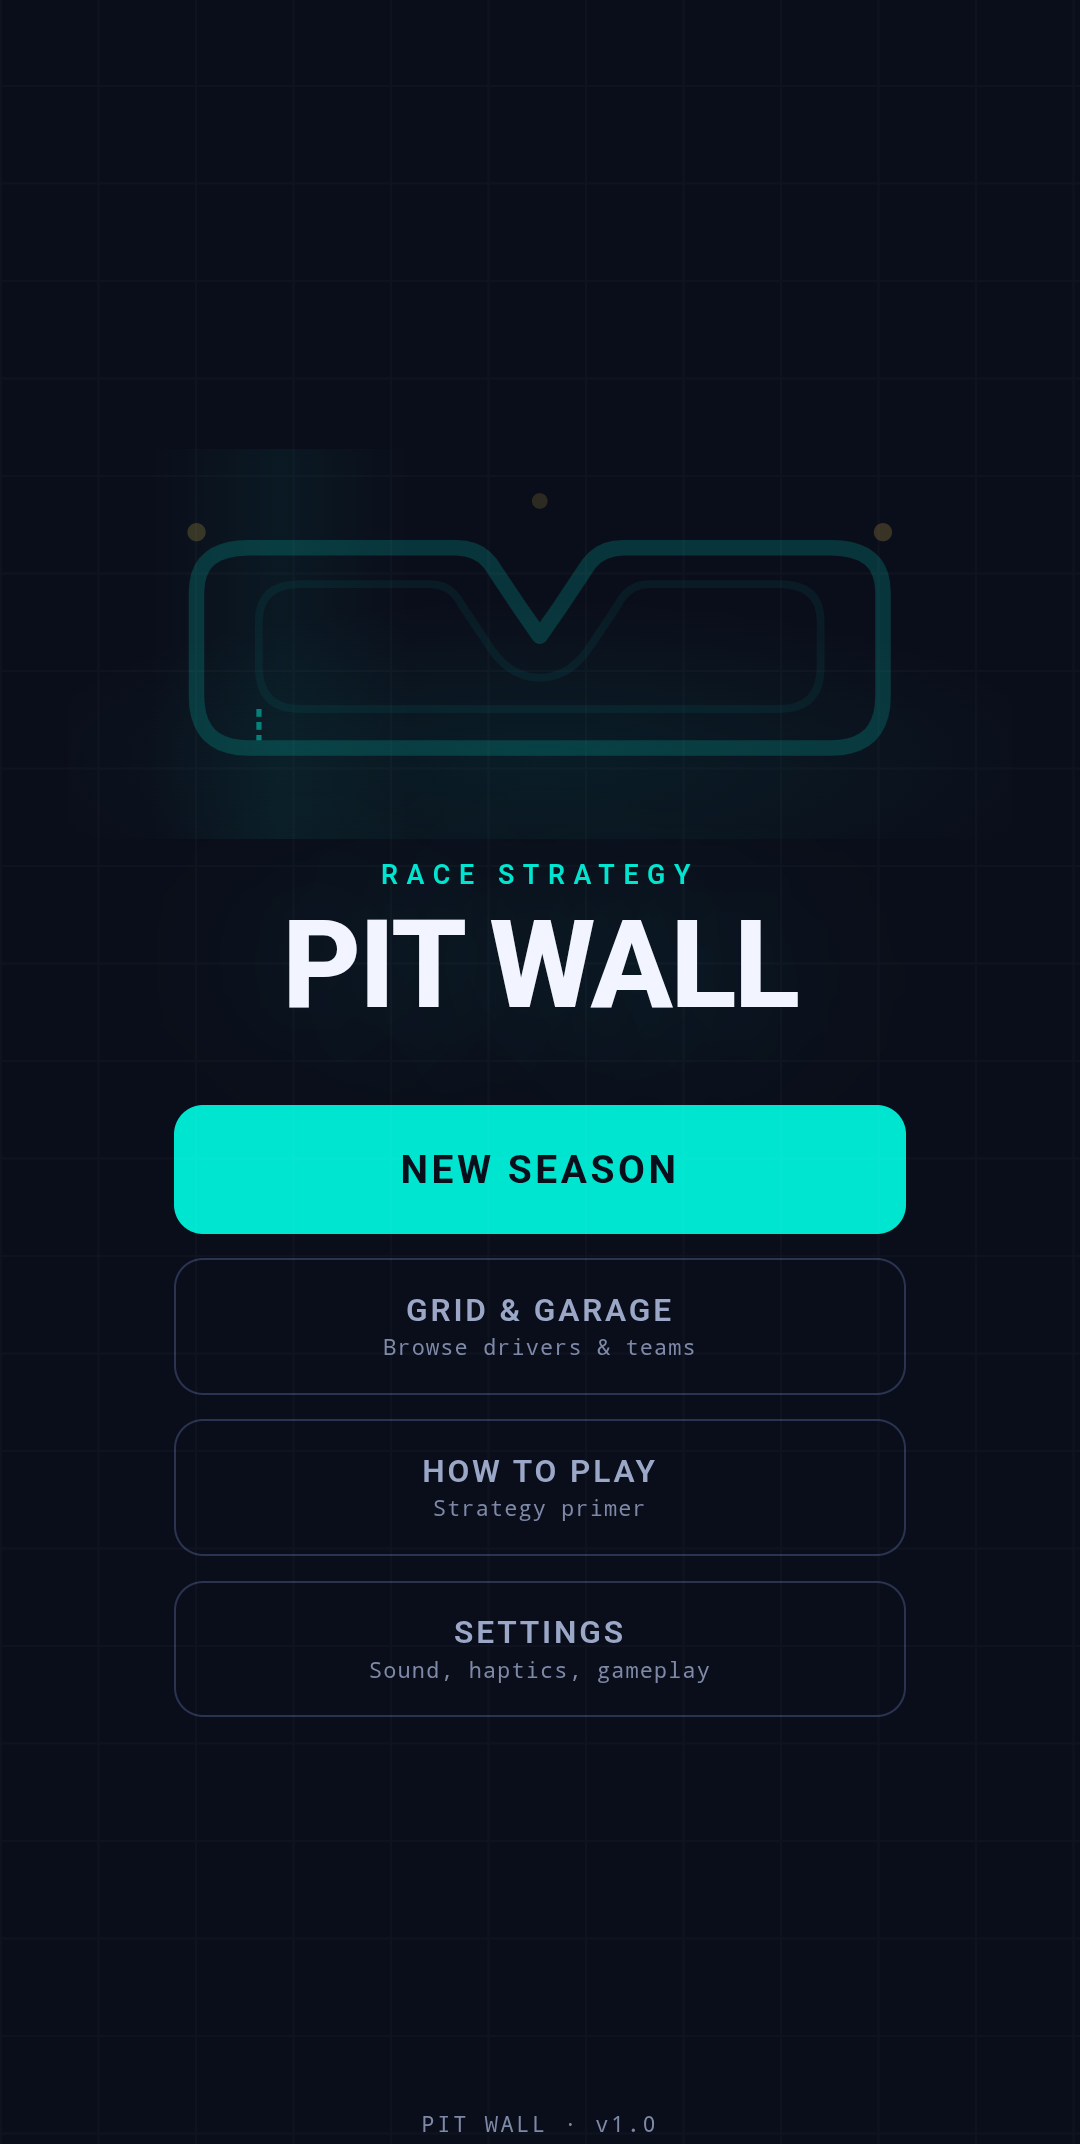
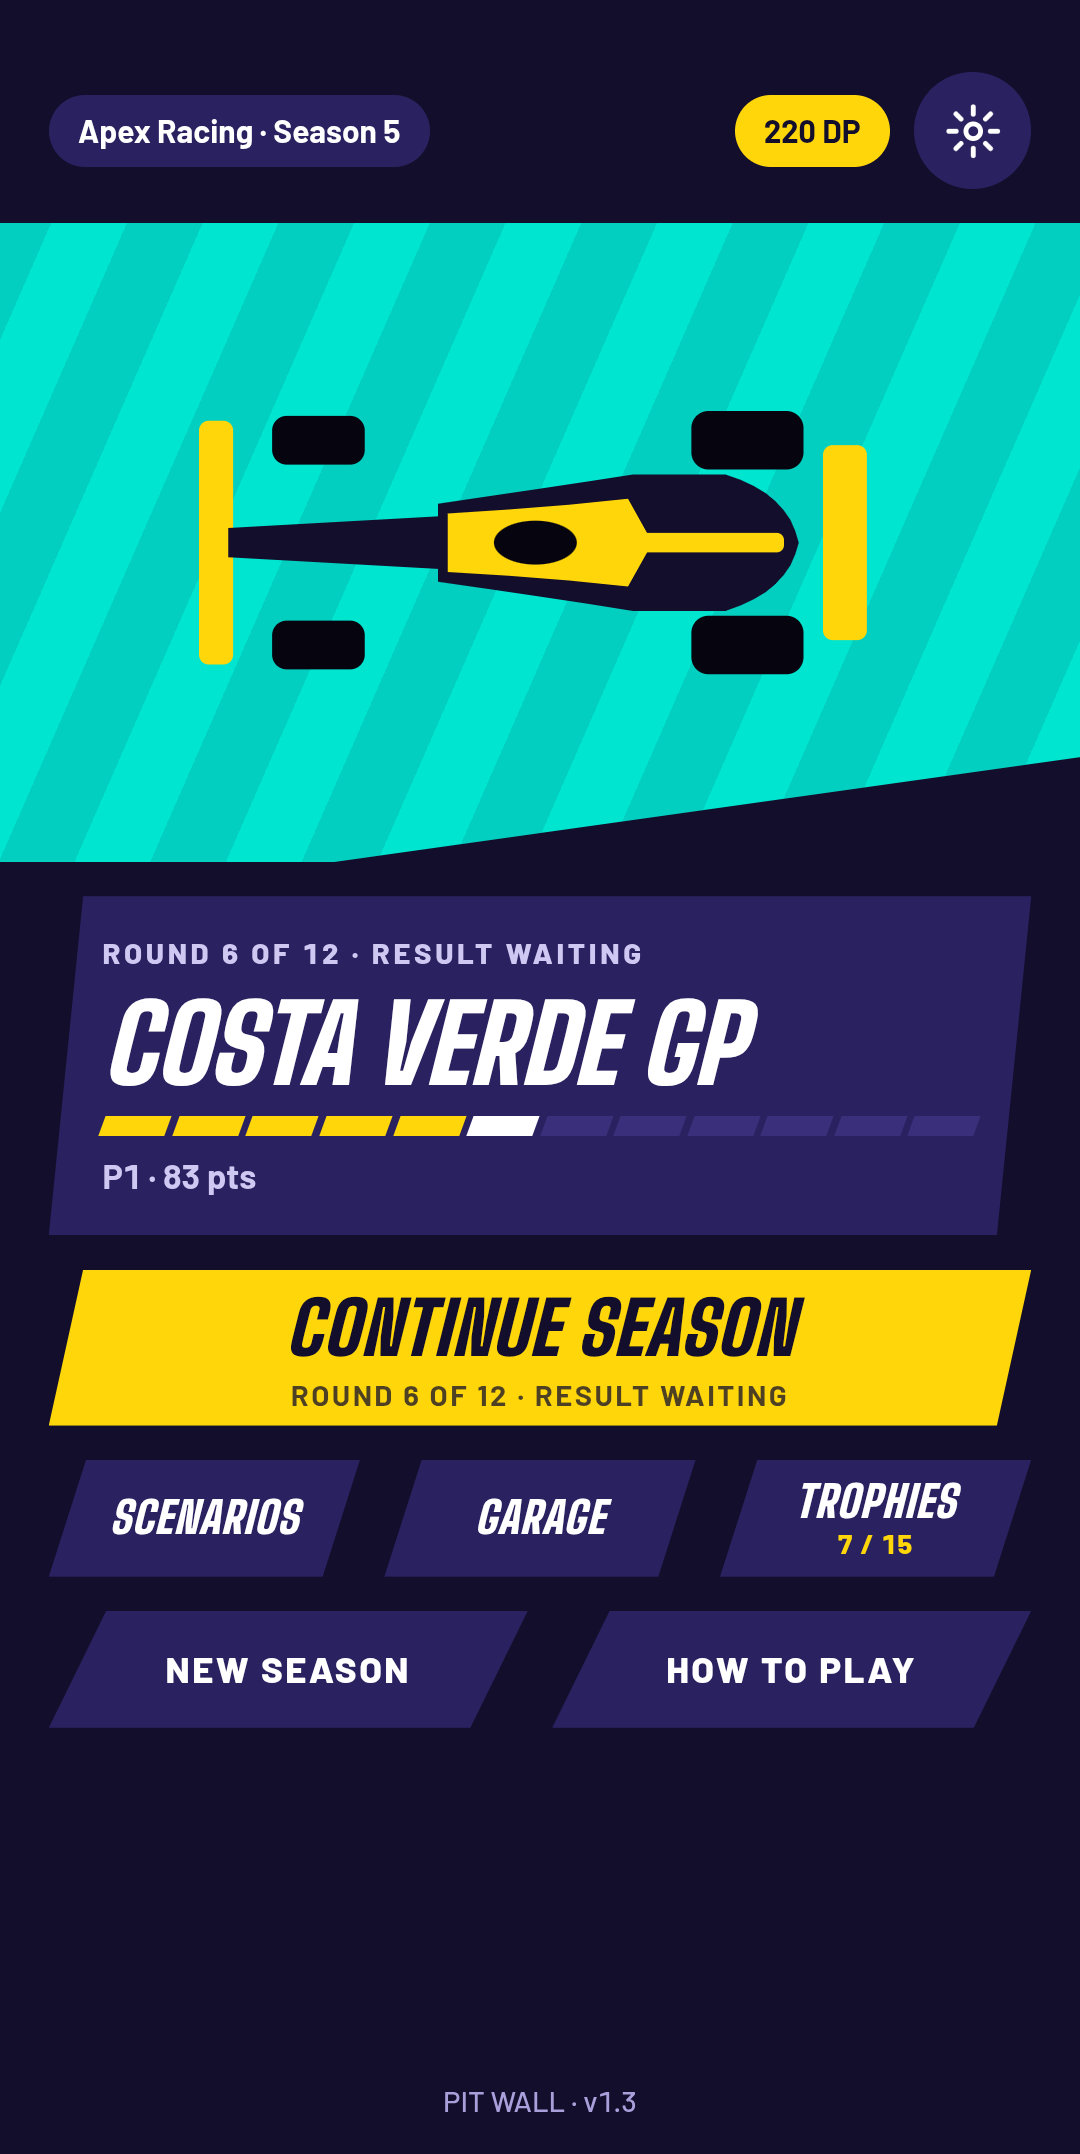
docs: Race Day Bold plan 2 phone pass and store screenshots

diff --git a/docs/V2-CHECKLIST.md b/docs/V2-CHECKLIST.md
@@ -198,9 +198,11 @@ Checked against the repo and the Play Console on 2026-09-24.
 
 ### Still Veet's, unchanged
 
-- **Screenshots.** The 7 in `store/screenshots/` are from August and
-  September: no qualifying, no career, no badges, and shot before the font
-  fix. The icon and feature graphic are fine and were reused for PGS.
+- **Screenshots.** Replaced 2026-10-10 with 6 Race Day Bold shots in
+  `store/screenshots/` (menu, race setup, qualifying, live race, pit panel,
+  trophy room; status and nav bars cropped). Ready to upload; a race result
+  and a team-select shot are still missing (see the Plan 2 phone pass). The
+  icon and feature graphic predate the redesign.
 - **Privacy policy hosting.** Still not at a public URL, and 1.3 needs it to
   say more than 1.2 did.
 - **1.2 review status.** Submitted 2026-09-24; unknown since.
@@ -235,8 +237,7 @@ Checked against the repo and the Play Console on 2026-09-24.
 3. **A contact address for the privacy policy**, and hosting for it. Play
    will not accept the policy without an address, and 1.3 cannot ship without
    the policy.
-4. **Screenshots.** Still August and September: no qualifying, no career, no
-   badges, shot before the font fix.
+4. **Screenshots.** Replaced 2026-10-10 (Race Day Bold, 6 shots).
 5. **1.2's review status**, still unknown.
 
 ## 2026-10-09: the team ladder
@@ -334,3 +335,17 @@ replied inside the Capacitor WebView on the Pixel 10 Pro XL
 - Untouched screens readable in the new palette: development, race setup, qualifying.
 - Fixed after the first pass: invisible car on the menu band, digit gaps, empty space above the tower, "1 laps", projection only after a tyre tap.
 - Left for Plan 2: race-setup circuit card renders collapsed (pre-existing); a small gap remains in "+ 15 PTS"; podium helmets look soft at small size; menu "next race" shows the pending round while a result is unkept (old semantics).
+
+## 2026-10-10: Race Day Bold — Plan 2 phone pass
+
+Release build on the Pixel-class test phone (1080x2404), Veet's season-5 career, round 6.
+
+- Seen and working: the factory, race setup (circuit card full height, laps 2–4 forecast pills, REC on the recommended tyre, stint split dragged L21→L33 and the PLAN line followed), qualifying (lap card, grid, SIMULATE + TO THE GRID after a lap), race (tower, tyre meter, PIT sheet with ghost row and sets left), result (flat helmets, DNF band), menu (RESULT WAITING, TROPHIES 7/15), trophy room, garage (collectible cards, white visors), settings, scenarios.
+- Fixed during the pass (f4bd690): settings speed/difficulty selectors crushed; factory eyebrow clipped at "6 OF"; selected tyre too faint in race setup; HUD lap counter gap "L   1/46"; scenario pills invisible on the card.
+- Not exercised on the phone: team and driver select (reachable only through NEW SEASON, which would discard the career), the season-end verdict, start lights (the race started without the sequence), the dry-track spin radio (unit-tested).
+- The round-6 result was left unkept on purpose (two test races: P19, then a retry that ended DNF) — RETRY or play it out.
+- For Veet:
+  - Status-bar icons render dark on the dark ground (StatusBar style); pick light icons.
+  - RETRY ROUND re-rolls the weather but keeps the start tyre from the plan, so a wet-start plan retried into a dry race starts P20 on wets. Pre-existing; decide whether retry should reopen setup.
+  - The pit sheet's slanted top cuts a tower row in half behind it.
+  - Championship footer is ~260px tall on short phones; badge tiles' text sits close to the slant edge.
